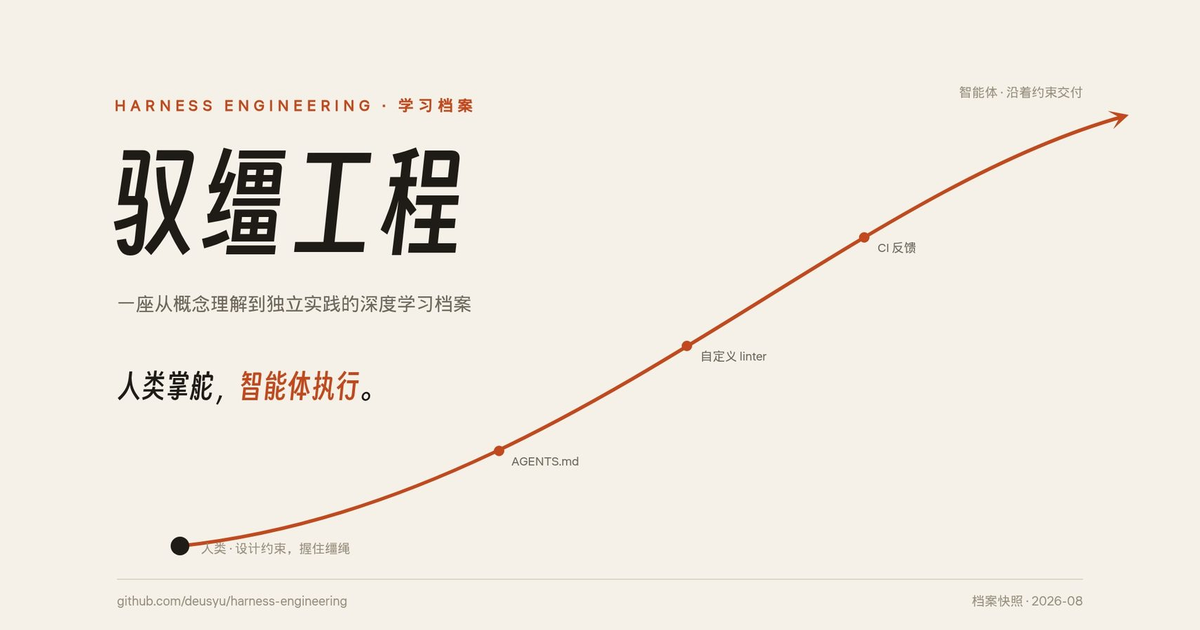
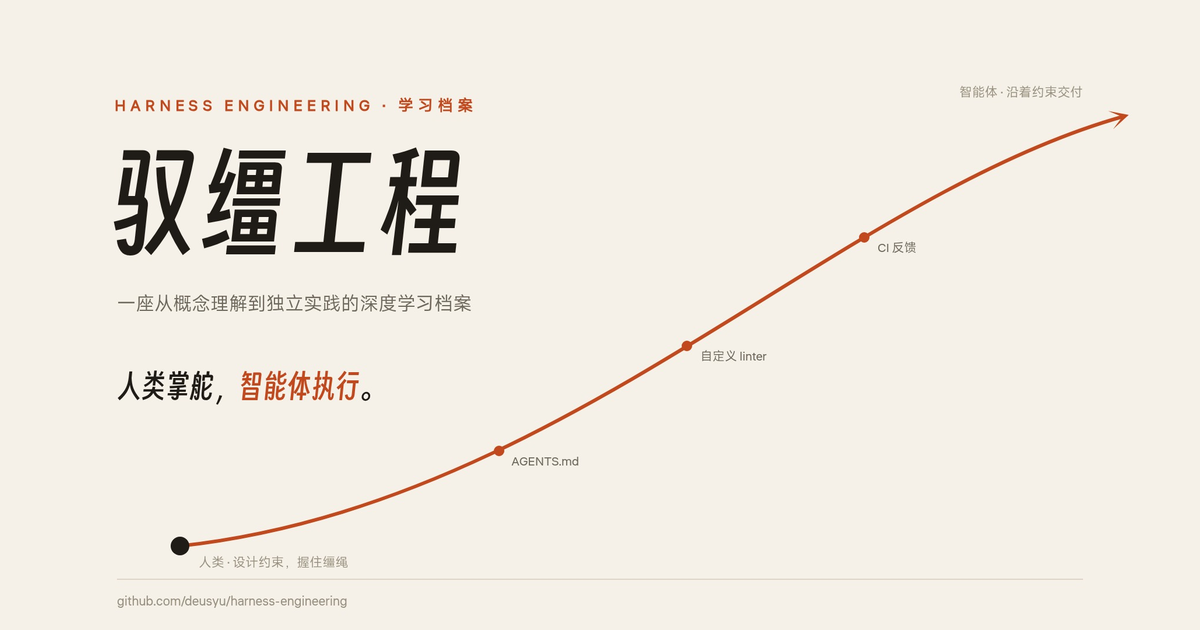
feat(site): 重做分享图并加 twitter:site
- og.png 改由 intro deck 封面页的 PPTD 源渲染：起点标签「人类 · 设计约束，握住缰绳」挪到锚点右下方，与曲线、圆点不相交，离曲线的距离与另外三个节点标签一致；去掉右下角「档案快照 · 2026-08」。仍是补边、不裁切。works/ 下的演示稿文件不动
- 全站 head 加 twitter:site=@0xdeusyu

diff --git a/.vitepress/config.ts b/.vitepress/config.ts
@@ -23,8 +23,8 @@ const REPO_URL = 'https://github.com/deusyu/harness-engineering'
 const RAW_URL = 'https://raw.githubusercontent.com/deusyu/harness-engineering/main'
 const SITE_TITLE = 'Harness Engineering'
 const SITE_DESC = '驭缰工程中文学习档案——概念笔记、独立思考、系统性翻译与实践记录'
-// 全站默认分享图：public/og.png 是 works/harness-engineering-intro-deck/cover.jpg
-// 补边到 1200×630 的真实拷贝（C14 禁 symlink）。
+// 全站默认分享图：public/og.png 由 works/harness-engineering-intro-deck/deck 封面页
+// 渲染（分享版挪开起点标签、去掉快照日期）后补边到 1200×630，是真实文件（C14 禁 symlink）。
 const OG_IMAGE = `${HOST}/og.png`
 const OG_IMAGE_ALT = '驭缰工程 · Harness Engineering 学习档案——人类掌舵，智能体执行'
 const AUTHOR = { '@type': 'Person', name: 'deusyu', url: 'https://github.com/deusyu' }
@@ -226,6 +226,7 @@ export default defineConfig({
     ['meta', { property: 'og:image:height', content: '630' }],
     ['meta', { property: 'og:image:alt', content: OG_IMAGE_ALT }],
     ['meta', { name: 'twitter:card', content: 'summary_large_image' }],
+    ['meta', { name: 'twitter:site', content: '@0xdeusyu' }],
     ['meta', { name: 'twitter:image', content: OG_IMAGE }],
     ['meta', { name: 'twitter:image:alt', content: OG_IMAGE_ALT }],
     ['link', { rel: 'alternate', type: 'application/rss+xml', title: `${SITE_TITLE} RSS`, href: `${HOST}/feed.xml` }],
